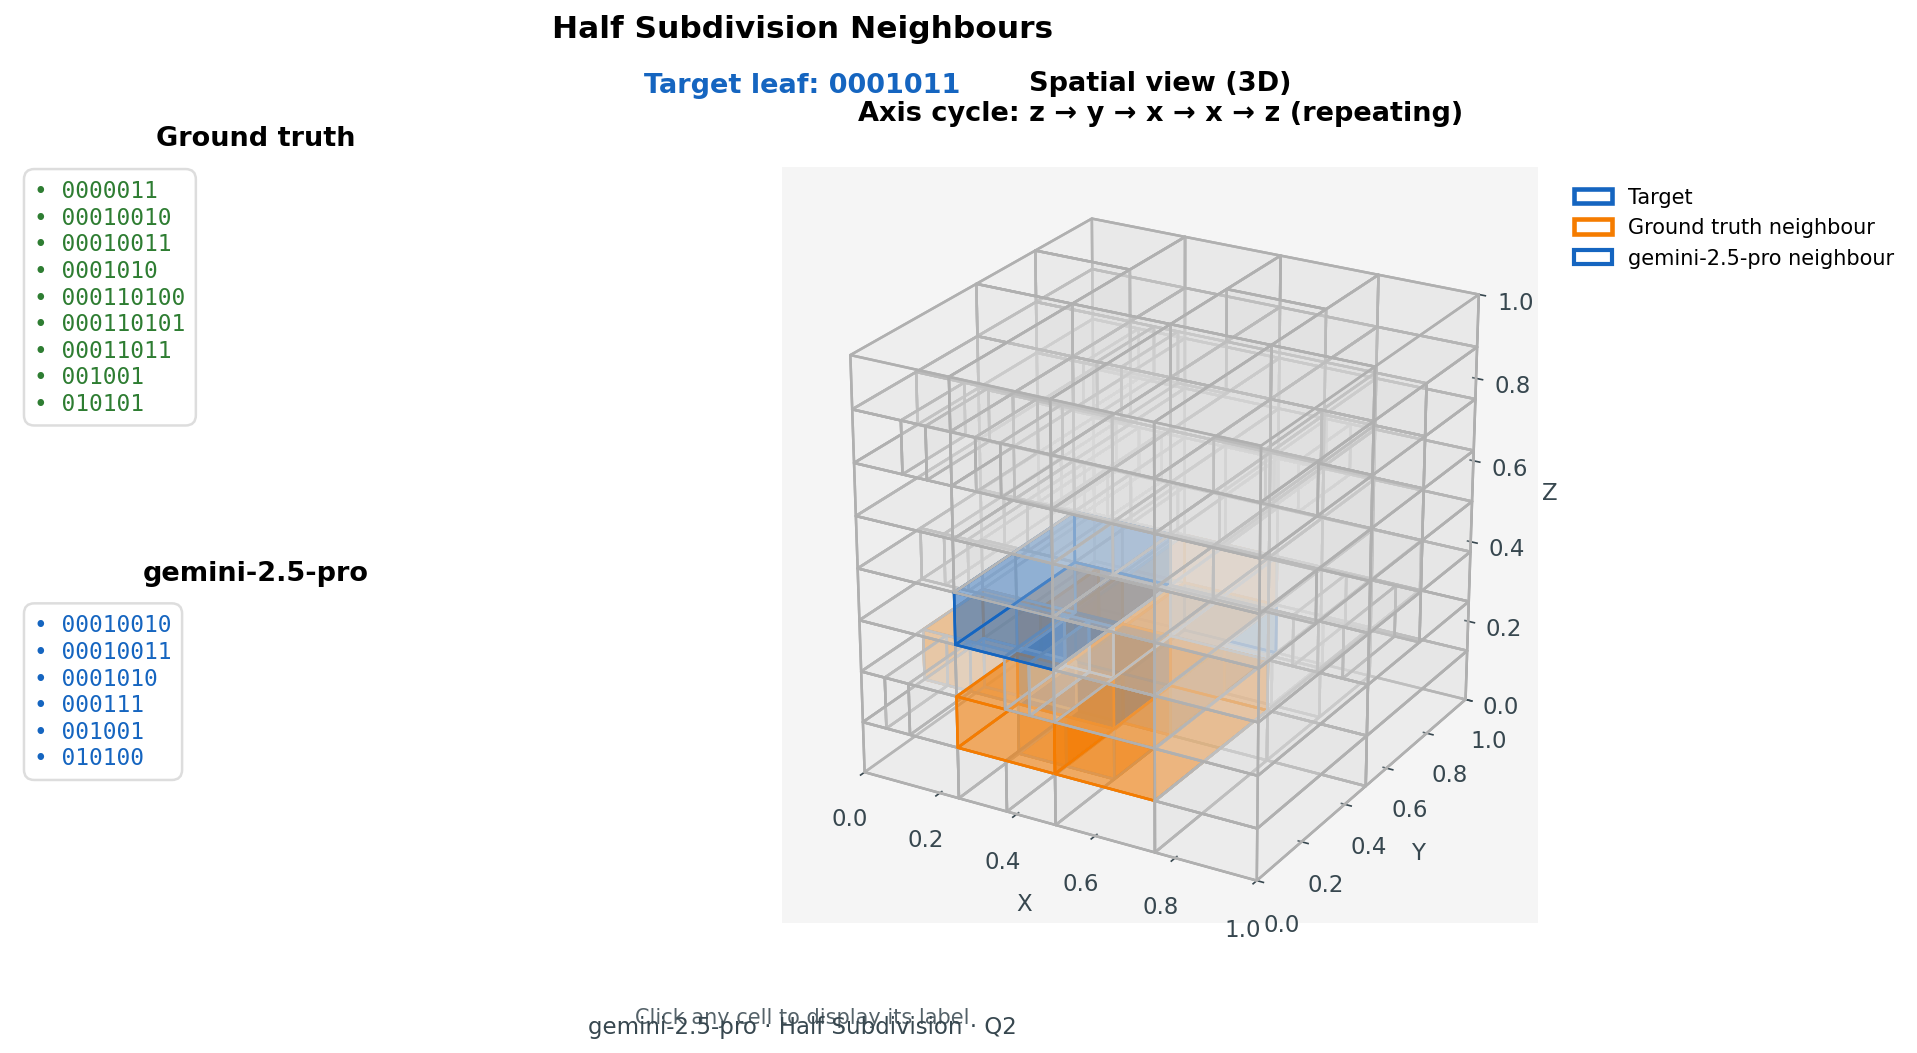
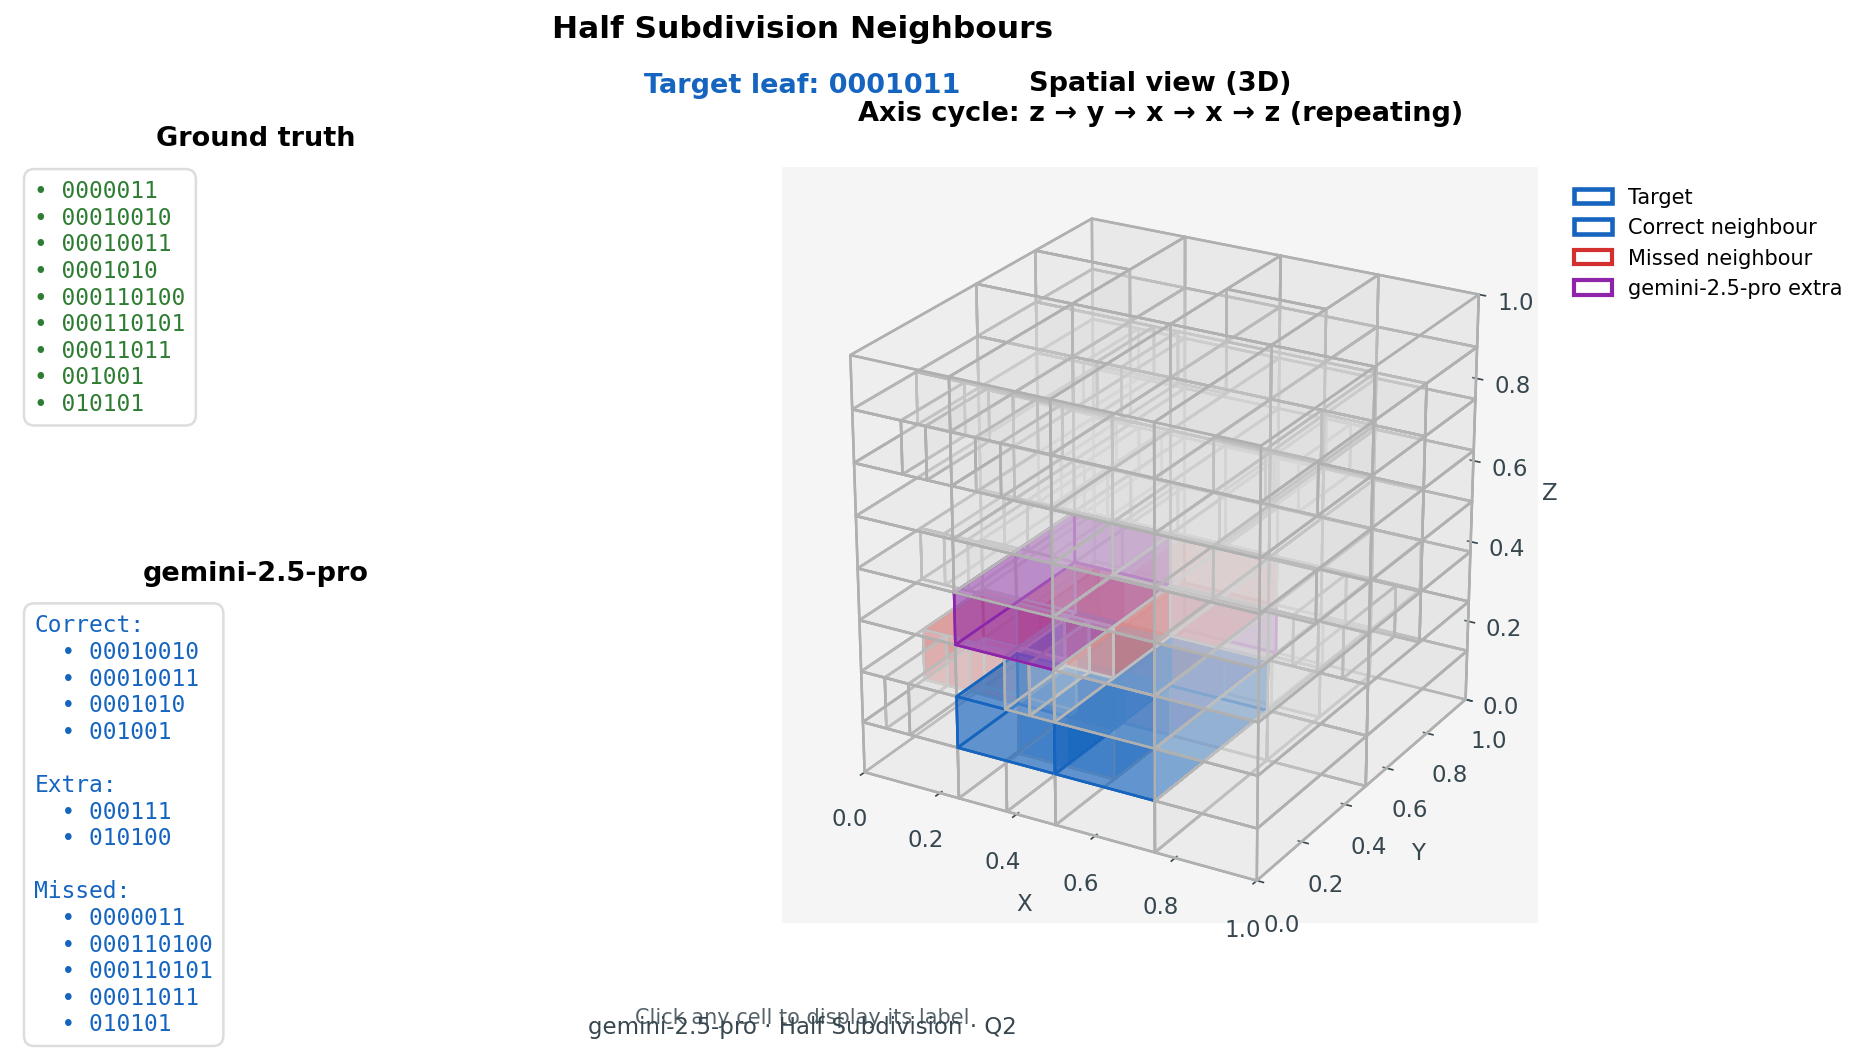
Highlight extra/missed neighbours in half-subdivision visuals

diff --git a/visualisations/half_subdivision.py b/visualisations/half_subdivision.py
@@ -93,12 +93,18 @@ def _draw_leaves(
     target_label: str | None = None,
     ground_truth_labels: Iterable[str] | None = None,
     model_answer_labels: Iterable[str] | None = None,
+    correct_labels: Iterable[str] | None = None,
+    missed_labels: Iterable[str] | None = None,
+    extra_labels: Iterable[str] | None = None,
     base_colour: str = COLOURS["annotation"],
 ) -> list[plt.Artist]:
-    """Outline all leaves, emphasising target (blue), ground truth (orange), model answer (red)."""
+    """Outline all leaves, with explicit colours for target/correct/missed/extra cells."""
 
     gt_set = {(label or "") for label in (ground_truth_labels or []) if isinstance(label, str)}
     model_set = {(label or "") for label in (model_answer_labels or []) if isinstance(label, str)}
+    correct_set = {(label or "") for label in (correct_labels or []) if isinstance(label, str)}
+    missed_set = {(label or "") for label in (missed_labels or []) if isinstance(label, str)}
+    extra_set = {(label or "") for label in (extra_labels or []) if isinstance(label, str)}
     target = (target_label or "") if target_label is not None else None
 
     artists: list[plt.Artist] = []
@@ -114,6 +120,18 @@ def _draw_leaves(
             edgecolor = COLOURS["reference"]
             linewidth = 2.8
             zorder = 3
+        elif label_key in correct_set:
+            edgecolor = COLOURS["answer"]
+            linewidth = 2.4
+            zorder = 2.7
+        elif label_key in missed_set:
+            edgecolor = COLOURS["missed_vertex"]
+            linewidth = 2.3
+            zorder = 2.6
+        elif label_key in extra_set:
+            edgecolor = COLOURS["extra_vertex"]
+            linewidth = 2.2
+            zorder = 2.4
         elif label_key in gt_set:
             edgecolor = COLOURS["partial"]
             linewidth = 2.2
@@ -174,10 +192,16 @@ def _draw_voxels(
     target_label: str | None,
     ground_truth_labels: Iterable[str] | None,
     model_answer_labels: Iterable[str] | None,
+    correct_labels: Iterable[str] | None,
+    missed_labels: Iterable[str] | None,
+    extra_labels: Iterable[str] | None,
     axis_cycle: tuple[str, ...],
 ) -> list[Poly3DCollection]:
     gt_set = {(label or "") for label in (ground_truth_labels or []) if isinstance(label, str)}
     model_set = {(label or "") for label in (model_answer_labels or []) if isinstance(label, str)}
+    correct_set = {(label or "") for label in (correct_labels or []) if isinstance(label, str)}
+    missed_set = {(label or "") for label in (missed_labels or []) if isinstance(label, str)}
+    extra_set = {(label or "") for label in (extra_labels or []) if isinstance(label, str)}
     target = (target_label or "") if target_label is not None else None
 
     artists: list[Poly3DCollection] = []
@@ -193,6 +217,18 @@ def _draw_voxels(
             facecolor = COLOURS["reference"]
             edgecolor = COLOURS["reference"]
             alpha = 0.45
+        elif label_key in correct_set:
+            facecolor = COLOURS["answer"]
+            edgecolor = COLOURS["answer"]
+            alpha = 0.4
+        elif label_key in missed_set:
+            facecolor = COLOURS["missed_vertex"]
+            edgecolor = COLOURS["missed_vertex"]
+            alpha = 0.4
+        elif label_key in extra_set:
+            facecolor = COLOURS["extra_vertex"]
+            edgecolor = COLOURS["extra_vertex"]
+            alpha = 0.35
         elif label_key in gt_set:
             facecolor = COLOURS["partial"]
             edgecolor = COLOURS["partial"]
@@ -274,11 +310,38 @@ def _format_label_lines(labels: list[str]) -> list[str]:
     return lines
 
 
+def _format_answer_diffs(
+    correct: list[str],
+    extra: list[str],
+    missed: list[str],
+) -> list[str]:
+    lines: list[str] = []
+
+    def _add_section(title: str, entries: list[str]) -> None:
+        if not entries:
+            return
+        lines.append(f"{title}:")
+        for label in sorted(entries):
+            safe = label if label else '""'
+            lines.append(f"  • {safe}")
+        lines.append("")
+
+    _add_section("Correct", correct)
+    _add_section("Extra", extra)
+    _add_section("Missed", missed)
+    if lines and lines[-1] == "":
+        lines.pop()
+    return lines
+
+
 def _add_highlight_legend(
     ax: plt.Axes,
     *,
     has_ground_truth: bool,
     has_model_answer: bool,
+    has_correct: bool = False,
+    has_missed: bool = False,
+    has_extra: bool = False,
     location: str = "upper right",
     bbox_anchor: tuple[float, float] | None = None,
     model_label: str | None = None,
@@ -291,7 +354,16 @@ def _add_highlight_legend(
             label="Target",
         ),
     ]
-    if has_ground_truth:
+    if has_correct:
+        handles.append(
+            Patch(
+                facecolor="white",
+                edgecolor=COLOURS["answer"],
+                linewidth=2.2,
+                label="Correct neighbour",
+            )
+        )
+    elif has_ground_truth:
         handles.append(
             Patch(
                 facecolor="white",
@@ -300,7 +372,26 @@ def _add_highlight_legend(
                 label="Ground truth neighbour",
             )
         )
-    if has_model_answer:
+    if has_missed:
+        handles.append(
+            Patch(
+                facecolor="white",
+                edgecolor=COLOURS["missed_vertex"],
+                linewidth=2.0,
+                label="Missed neighbour",
+            )
+        )
+    if has_extra:
+        extra_label = f"{model_label} extra" if model_label else "Extra neighbour"
+        handles.append(
+            Patch(
+                facecolor="white",
+                edgecolor=COLOURS["extra_vertex"],
+                linewidth=2.0,
+                label=extra_label,
+            )
+        )
+    elif has_model_answer and not has_correct:
         neighbour_label = f"{model_label} neighbour" if model_label else "Model answer neighbour"
         handles.append(
             Patch(
@@ -409,7 +500,8 @@ def _render_half_subdivision(
         weight="semibold",
     )
     parsed_answer = _coerce_string_list(answer)
-    show_model_answer = detail and isinstance(parsed_answer, list) and len(parsed_answer) > 0
+    model_answer_labels: list[str] = parsed_answer if isinstance(parsed_answer, list) else []
+    show_model_answer = detail and bool(model_answer_labels)
     text_rows = 2 if show_model_answer else 1
     gs = fig.add_gridspec(text_rows, 2, width_ratios=[1, 2], hspace=0.35, wspace=0.25)
 
@@ -424,10 +516,16 @@ def _render_half_subdivision(
     )
 
     highlight_labels: list[str] = list(ground_truth_labels)
-    model_answer_labels: list[str] = []
+
+    gt_set = {label for label in ground_truth_labels if isinstance(label, str)}
+    answer_set = {label for label in model_answer_labels if isinstance(label, str)}
+    correct_labels = sorted(gt_set & answer_set) if answer_set else []
+    missed_labels = sorted(gt_set - answer_set) if answer_set else []
+    extra_labels = sorted(answer_set - gt_set) if answer_set else []
     if show_model_answer:
         ax_ans = fig.add_subplot(gs[1, 0])
-        answer_lines = _format_label_lines(parsed_answer)
+        diff_lines = _format_answer_diffs(correct_labels, extra_labels, missed_labels)
+        answer_lines = diff_lines if diff_lines else _format_label_lines(model_answer_labels)
         _render_text_block(
             ax_ans,
             title=model_label,
@@ -435,7 +533,6 @@ def _render_half_subdivision(
             empty_message="(none)",
             colour=COLOURS["answer"],
         )
-        model_answer_labels = parsed_answer
     interactive_artists: list[plt.Artist] = []
 
     if dim == Dimension.D3:
@@ -447,6 +544,9 @@ def _render_half_subdivision(
                 target_label=target_label,
                 ground_truth_labels=highlight_labels,
                 model_answer_labels=model_answer_labels,
+                correct_labels=correct_labels,
+                missed_labels=missed_labels,
+                extra_labels=extra_labels,
                 axis_cycle=axis_cycle,
             )
         )
@@ -455,6 +555,9 @@ def _render_half_subdivision(
             ax_spatial,
             has_ground_truth=bool(highlight_labels),
             has_model_answer=bool(model_answer_labels),
+            has_correct=bool(correct_labels),
+            has_missed=bool(missed_labels),
+            has_extra=bool(extra_labels),
             location="upper left",
             bbox_anchor=(1.02, 1.0),
             model_label=model_label,
@@ -478,12 +581,18 @@ def _render_half_subdivision(
                 target_label=target_label,
                 ground_truth_labels=highlight_labels,
                 model_answer_labels=model_answer_labels,
+                correct_labels=correct_labels,
+                missed_labels=missed_labels,
+                extra_labels=extra_labels,
             )
         )
         _add_highlight_legend(
             ax_spatial,
             has_ground_truth=bool(highlight_labels),
             has_model_answer=bool(model_answer_labels),
+            has_correct=bool(correct_labels),
+            has_missed=bool(missed_labels),
+            has_extra=bool(extra_labels),
             location="upper left",
             bbox_anchor=(1.02, 1.0),
             model_label=model_label,
